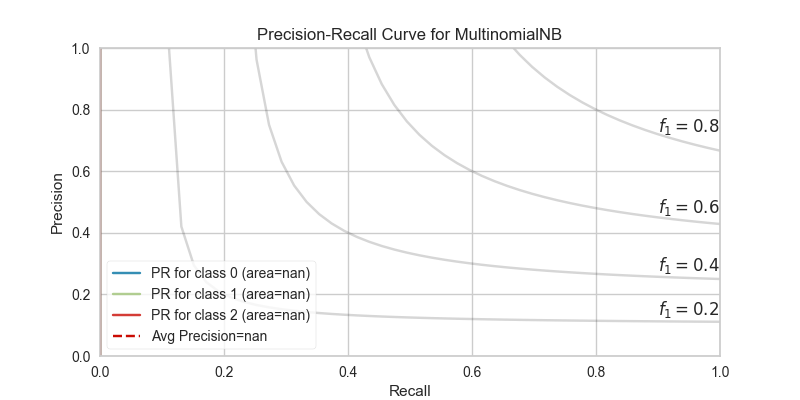
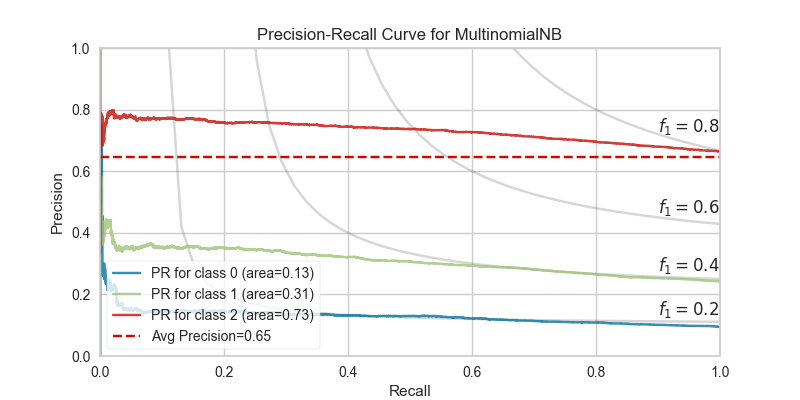
text and decision boundaries

Changed region(s): [[0.125, 0.27, 0.9062, 0.84], [0.7812, 0.69, 0.9062, 0.72], [0.3125, 0.81, 0.3438, 0.87]]

diff --git a/docs/gallery.py b/docs/gallery.py
@@ -8,7 +8,7 @@ import os.path as path
 import matplotlib.pyplot as plt
 
 from yellowbrick.datasets import load_occupancy, load_credit, load_concrete
-from yellowbrick.datasets import load_spam, load_game, load_energy
+from yellowbrick.datasets import load_spam, load_game, load_energy, load_hobbies
 
 from yellowbrick.features import RFECV, JointPlot
 from yellowbrick.features import RadViz, Rank1D, Rank2D, ParallelCoordinates
@@ -26,18 +26,24 @@ from yellowbrick.cluster import KElbowVisualizer, SilhouetteVisualizer
 from yellowbrick.cluster import InterclusterDistance
 
 from yellowbrick.model_selection import ValidationCurve, LearningCurve, CVScores
+from yellowbrick.contrib.classifier import DecisionViz
+
+from yellowbrick.text import FreqDistVisualizer, TSNEVisualizer, DispersionPlot
 
 from sklearn.tree import DecisionTreeRegressor
+from sklearn.preprocessing import StandardScaler
 from sklearn.linear_model import RidgeClassifier
+from sklearn.neighbors import KNeighborsClassifier
 from sklearn.datasets import load_iris, load_digits
 from sklearn.cluster import KMeans, MiniBatchKMeans
 from sklearn.linear_model import LogisticRegression
 from sklearn.ensemble import RandomForestClassifier
 from sklearn.naive_bayes import GaussianNB, MultinomialNB
 from sklearn.model_selection import train_test_split as tts
-from sklearn.datasets import make_classification, make_blobs
 from sklearn.preprocessing import OrdinalEncoder, LabelEncoder
 from sklearn.linear_model import Ridge, Lasso, LassoCV, RidgeCV
+from sklearn.datasets import make_classification, make_blobs, make_moons
+from sklearn.feature_extraction.text import CountVectorizer, TfidfVectorizer
 
 
 GALLERY = path.join(path.dirname(__file__), "images", "gallery")
@@ -238,7 +244,7 @@ def prcurve(dataset):
     elif dataset == "multiclass":
         X, y = load_game()
         X = OrdinalEncoder().fit_transform(X)
-        # y = LabelEncoder().fit_transform(y)
+        y = LabelEncoder().fit_transform(y)
         model = MultinomialNB()
         kws = {"per_class":True, "iso_f1_curves":True, "fill_area":False, "micro": False}
     else:
@@ -327,6 +333,49 @@ def cvscores():
     savefig(oz, "cv_scores")
 
 
+def decision():
+    X, y = make_moons(noise=0.3)
+    X = StandardScaler().fit_transform(X)
+    X_train, X_test, y_train, y_test = tts(X, y, test_size=0.20)
+
+    oz = DecisionViz(KNeighborsClassifier(3), ax=newfig())
+    oz.fit(X_train, y_train)
+    oz.draw(X_test, y_test)
+    savefig(oz, "decision_boundaries")
+
+
+##########################################################################
+## Text Model Diagnostics
+##########################################################################
+
+def freqdist():
+    corpus = load_hobbies()
+    vecs = CountVectorizer()
+    docs = vecs.fit_transform(corpus.data)
+
+    oz = FreqDistVisualizer(features=vecs.get_feature_names(), ax=newfig())
+    oz.fit(docs)
+    savefig(oz, "freqdist")
+
+
+def tsne():
+    corpus = load_hobbies()
+    docs = TfidfVectorizer().fit_transform(corpus.data)
+
+    oz = TSNEVisualizer(ax=newfig())
+    oz.fit(docs, corpus.target)
+    savefig(oz, "corpus_tsne")
+
+
+def dispersion():
+    corpus = load_hobbies()
+    target_words = ['Game', 'player', 'score', 'oil', 'Man']
+
+    oz = DispersionPlot(target_words, ax=newfig())
+    oz.fit([doc.split() for doc in corpus.data])
+    savefig(oz, "dispersion")
+
+
 ##########################################################################
 ## Main Method
 ##########################################################################
@@ -364,6 +413,10 @@ if __name__ == "__main__":
         "validation": validation,
         "learning": learning,
         "cvscores": cvscores,
+        "freqdist": freqdist,
+        "tsne": tsne,
+        "dispersion": dispersion,
+        "decision": decision,
     }
 
     parser = argparse.ArgumentParser(description="gallery image generator")

diff --git a/docs/gallery.rst b/docs/gallery.rst
@@ -200,35 +200,33 @@ Model Selection Visualizers
     :alt: Cross Validation Scores
     :target: api/model_selection/cross_validation.html
 
+.. image:: images/gallery/decision_boundaries.png
+    :width: 200px
+    :height: 100px
+    :alt: Nearest Neighbor Decision Boundary Prototype
+    :target: api/contrib/boundaries.html#decisionboundaries-vizualizer
+
+
 Text Modeling Visualizers
 ---------------------------
 
-.. image:: api/text/images/freqdist_corpus.png
+.. image:: images/gallery/freqdist.png
     :width: 200px
     :height: 100px
-    :alt: Validation Curve for Decision Tree Regresor
+    :alt: Token Frequency Distribution
     :target: api/text/freqdist.html#token-frequency-distribution
 
-.. image:: api/text/images/tsne_all_docs.png
+.. image:: images/gallery/corpus_tsne.png
     :width: 200px
     :height: 100px
     :alt: TSNE Projection of Documents
     :target: api/text/tsne.html#t-sne-corpus-visualization
 
-.. image:: api/text/images/dispersion_docs.png
+.. image:: images/gallery/dispersion.png
     :width: 200px
     :height: 100px
-    :alt: Dispersion Plot
+    :alt: Dispersion of Words in a Corpus
     :target: api/text/dispersion.html#dispersion-plot
-
-Decision Boundaries Visualizer
-------------------------------
-
-.. image:: api/contrib/images/knn_decisionviz.png
-    :width: 200px
-    :height: 100px
-    :alt: Nearest Neighbor Boundary Visualizer
-    :target: api/contrib/boundaries.html#decisionboundaries-vizualizer
 
 Target Visualizers
 ------------------
